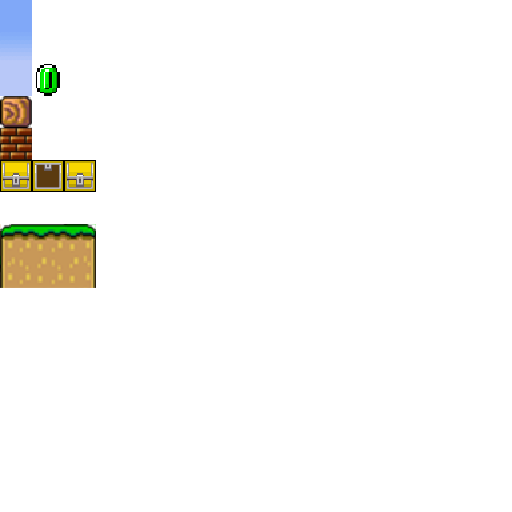
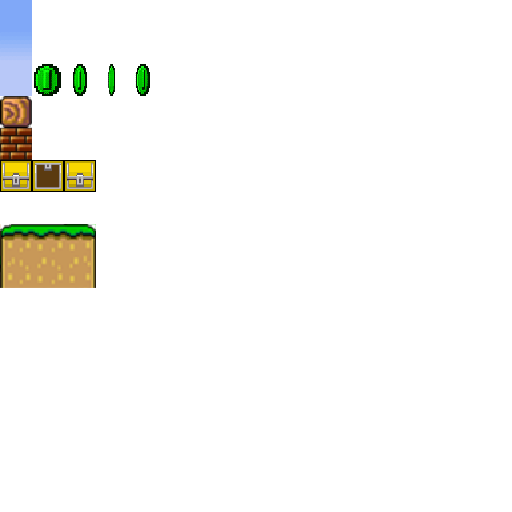
chapter32マップチップアニメーションを追加

Changed region(s): [[0.0625, 0.125, 0.3125, 0.1875]]

diff --git a/main.js b/main.js
@@ -12,6 +12,9 @@ var gCoinTex;
 var gMario;
 var gKuribo;
 
+var gMapAnimFrame = 0;
+var gMapAnimOffsetX = 0;
+
 // key
 var gSpacePush = false; // space
 var gLeftPush = false;	// left
@@ -61,6 +64,9 @@ var gBackGroundMapChip = [
   [0,0,0,0,0,0,0,0,0,0,0,0,0,0,0,0,0,0,0,0,0,0,0,0,0,0,0,0,0,0,0,0,0,0,0,0,0,0,0,0,0,0,0,0,0,0,0,0,0,0,0,0,0,0,0,0,0,0,0,0,0,0,0,0,0,0,0,0,0,0,0,0,0,0,0,0,0,0,0,0,0,0,0,0,0,0,0,0,0,0,0,0,0,0,0,0,0,0,0,0],
   [0,0,0,0,0,0,0,0,0,0,0,0,0,0,0,0,0,0,0,0,0,0,0,0,0,0,0,0,0,0,0,0,0,0,0,0,0,0,0,0,0,0,0,0,0,0,0,0,0,0,0,0,0,0,0,0,0,0,0,0,0,0,0,0,0,0,0,0,0,0,0,0,0,0,0,0,0,0,0,0,0,0,0,0,0,0,0,0,0,0,0,0,0,0,0,0,0,0,0,0]
 ];
+
+// アニメーションマップチップを入れる
+var ANIM_MAP_CHIPS = [33];
 
 /**
 	onload
@@ -194,7 +200,6 @@ window.requestNextAnimationFrame =
 )
 ();
 
-
 /*
 	Draw
 	描画
@@ -203,11 +208,12 @@ function Draw(){
   // 背景
   drawMap(gBackGroundMapChip);
   // オブジェクト
-  drawMap(gMapChip);
+  drawObjectMap(gMapChip);
 	gMario.draw(g_Ctx,gMarioTex);
   gKuribo.draw(g_Ctx,gKuriboTex,gMario.mapScrollX);
 
   drawCoin(630,10,gMario.coinNum);
+  changeMapAnim();
 }
 
 /**
@@ -222,6 +228,30 @@ function drawMap(map){
     for(var x = gMario.minDrawMapX;x < gMario.maxDrawMapX;++x){
       if(map[y][x] != NOT_DRAW_MAP){
         var indexX = 32 * ((map[y][x] + 16) % 16);
+        var indexY = 32 * Math.floor(map[y][x] / 16);
+        g_Ctx.drawImage(gMapTex,indexX,indexY,32,32,x * 32 - gMario.mapScrollX,y * 32,32,32);
+      }
+    }
+  }
+}
+
+/**
+  マップチップオブジェクトを描画
+  マップオブジェクトの一部はアニメーションする
+
+  map:対象のマップチップ配列
+*/
+function drawObjectMap(map){
+  // y軸
+  for(var y = 0;y < MAX_MAP_Y;++y){
+    // x軸
+    for(var x = gMario.minDrawMapX;x < gMario.maxDrawMapX;++x){
+      if(map[y][x] != NOT_DRAW_MAP){
+        var indexX = 32 * ((map[y][x] + 16) % 16);
+        // アニメーション用のマップチップの場合、animation offsetを足す
+        if(isAnimationMap(map[y][x])){
+          indexX += gMapAnimOffsetX * MAP_SIZE;
+        }
         var indexY = 32 * Math.floor(map[y][x] / 16);
         g_Ctx.drawImage(gMapTex,indexX,indexY,32,32,x * 32 - gMario.mapScrollX,y * 32,32,32);
       }
@@ -245,6 +275,32 @@ function drawCoin(posX,posY,coinNum){
     maxNumber = Math.floor(maxNumber / 10);		// 111 = 11にする
     numberPosX += 25;
   }
+}
+
+/**
+  マップチップ用のAnimationFrameの処理
+*/
+function changeMapAnim(){
+  if(gMapAnimFrame++ >= MAX_MAP_ANIM_FRAME){
+    gMapAnimFrame = 0;
+    if(++gMapAnimOffsetX >= MAX_MAP_ANIM_NUM){
+      gMapAnimOffsetX = 0;
+    }
+  }
+}
+
+/**
+  アニメーションマップチップかどうか判定する
+
+  mapIndex : 対象のマップチップインデックス
+*/
+function isAnimationMap(mapIndex){
+  for(var i = 0;i < ANIM_MAP_CHIPS.length;++i){
+    if(ANIM_MAP_CHIPS[i] == mapIndex){
+      return true;
+    }
+  }
+  return false;
 }
 
 function move(){

diff --git a/const.js b/const.js
@@ -28,3 +28,8 @@ var DEAD_ANIM_FRAME = 180;
 var STEP_UP_NUM = 13;
 // chapter29
 var NOT_DRAW_MAP = 255;
+// chapter32
+// マップチップのアニメーション数
+var MAX_MAP_ANIM_NUM = 4;
+// マップチップ切り替え数
+var MAX_MAP_ANIM_FRAME = 10;
